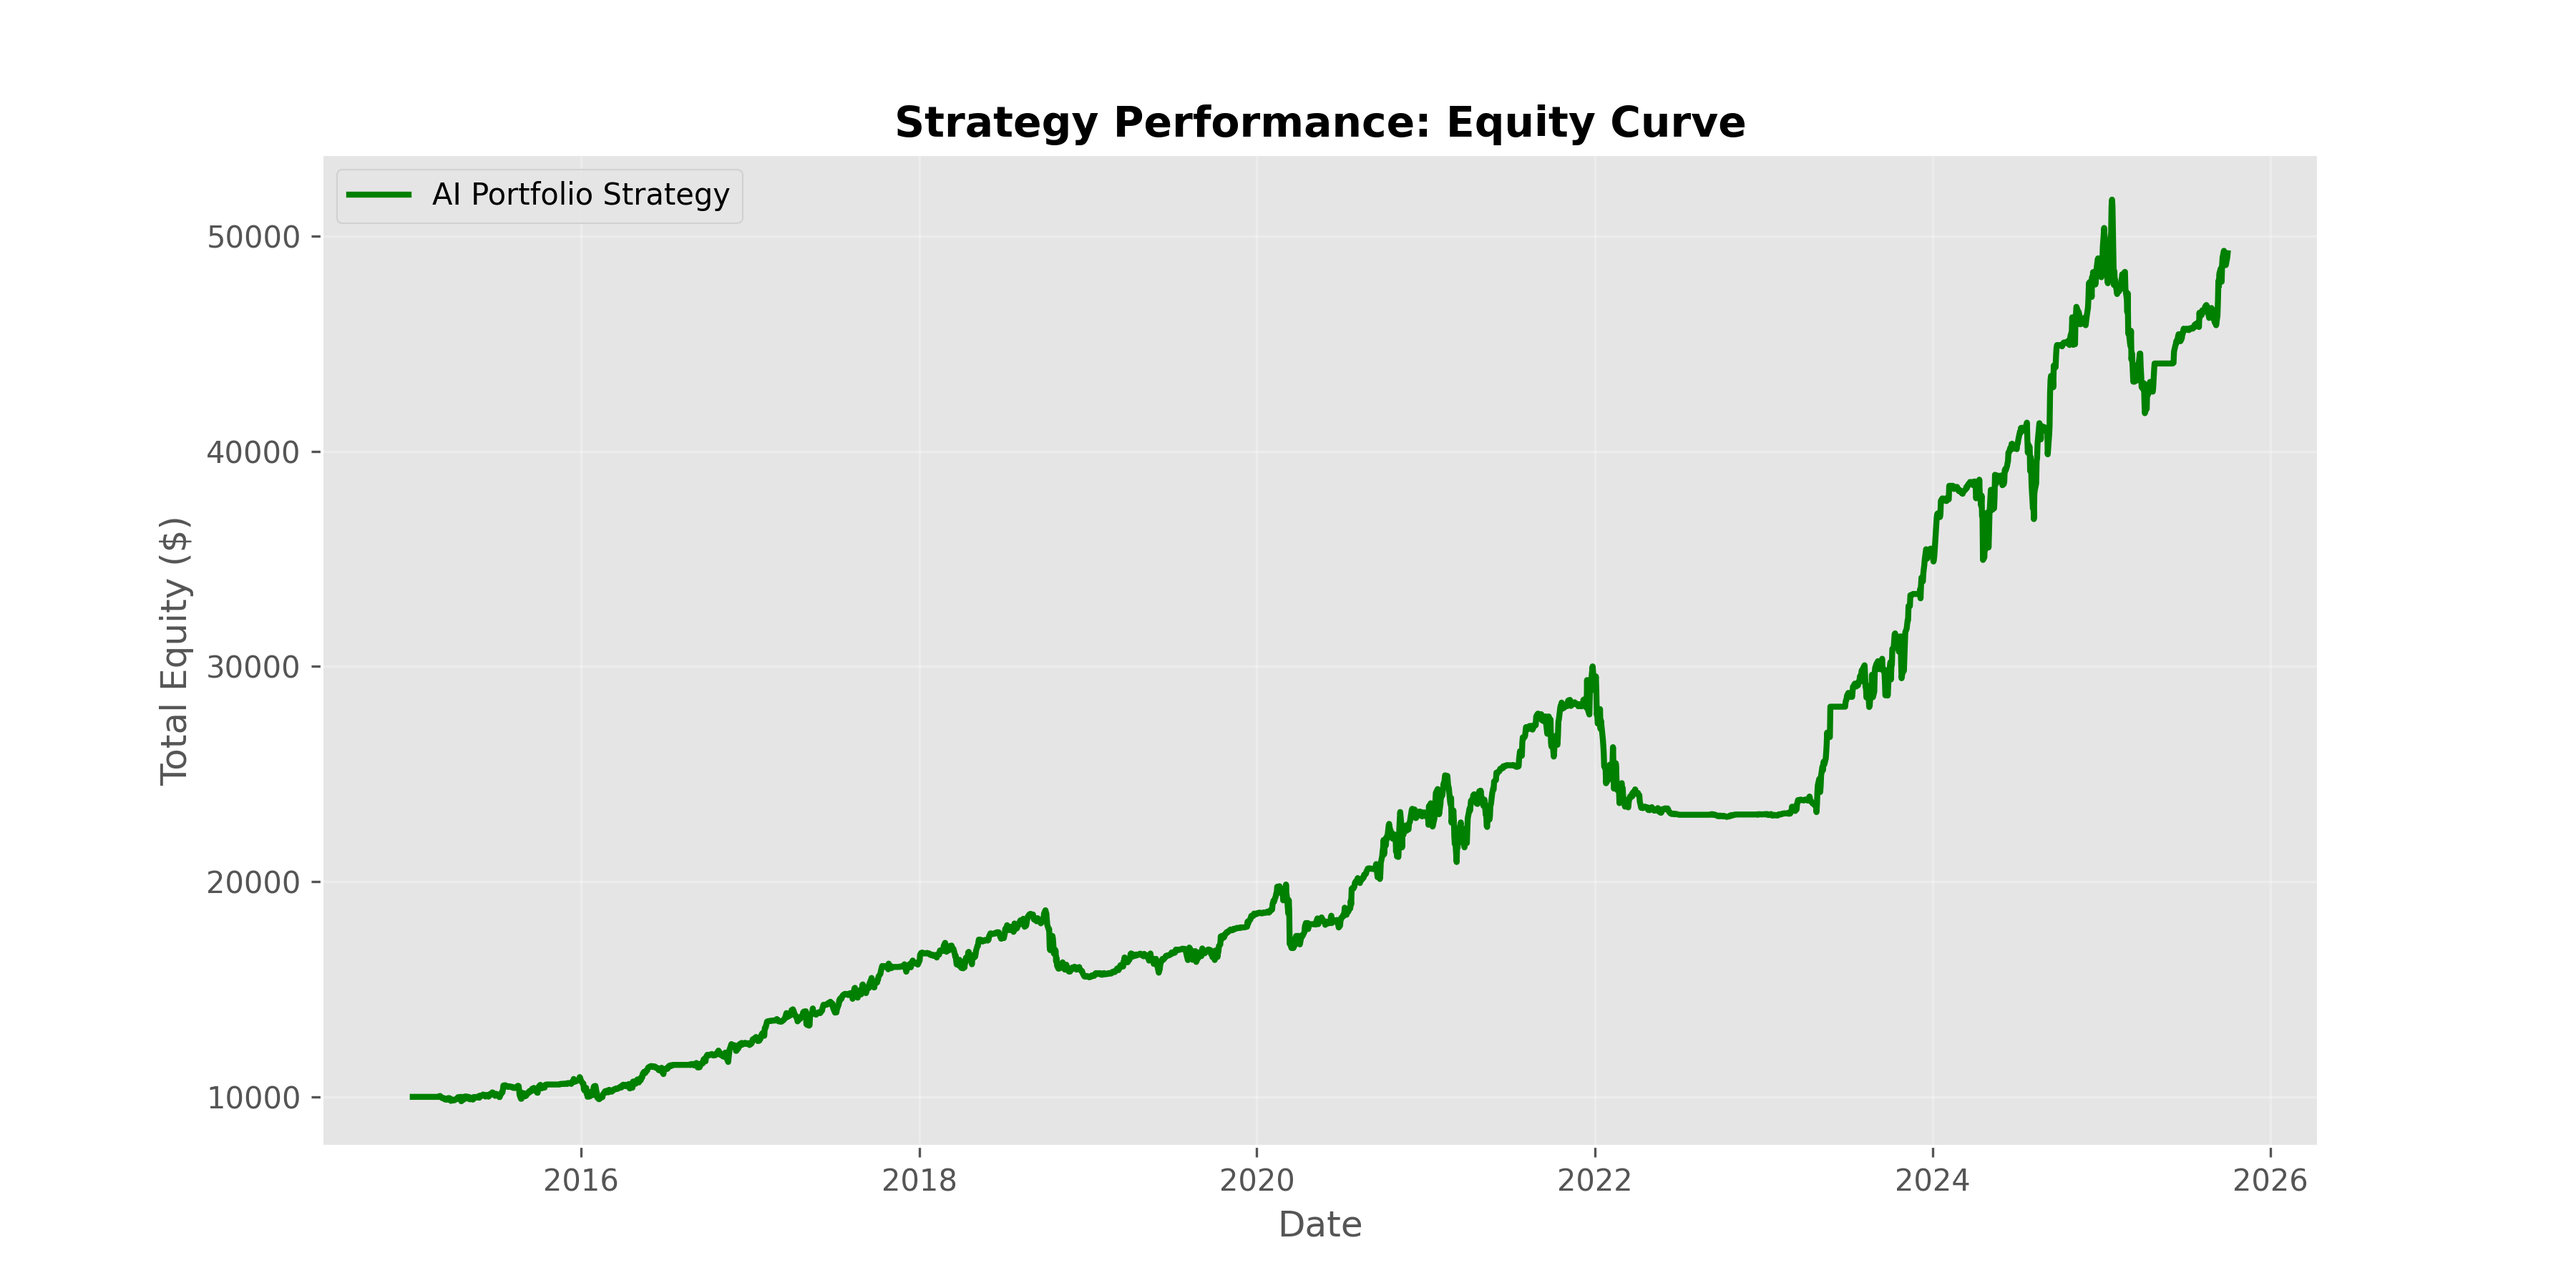
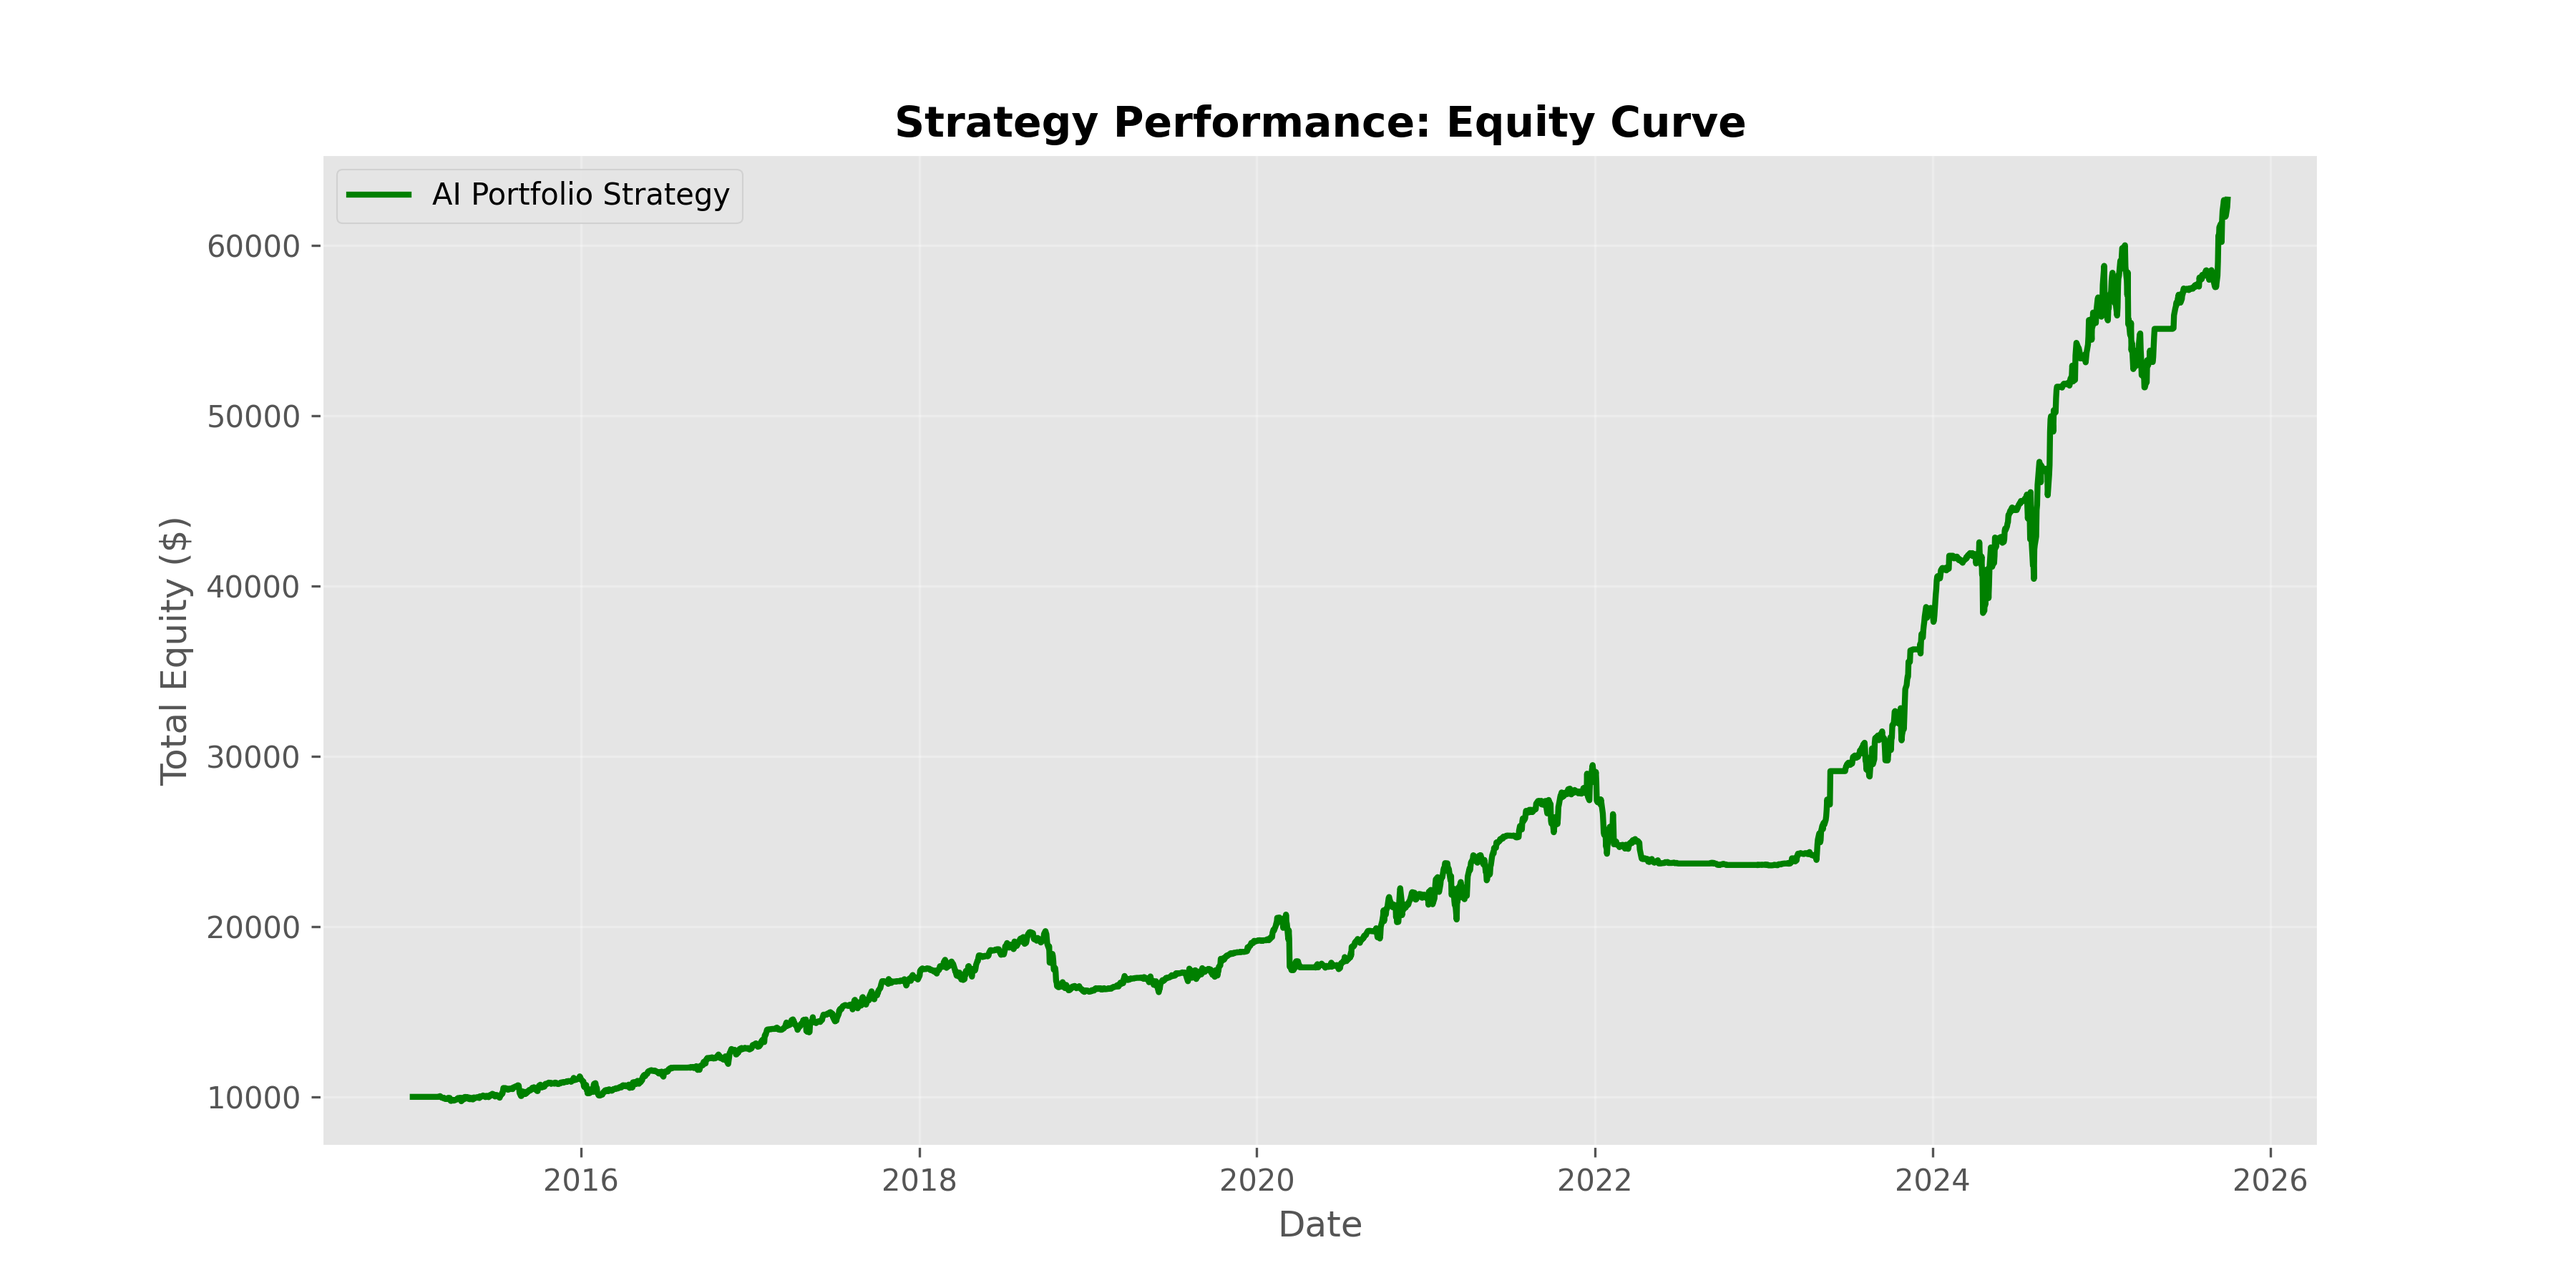
add files

diff --git a/MIDTERM_PROJECTS/strategy/backtest.py b/MIDTERM_PROJECTS/strategy/backtest.py
@@ -4,62 +4,50 @@ from MIDTERM_PROJECTS.strategy.signals import (check_entry_signal,check_exit_sig
 from MIDTERM_PROJECTS.strategy.indicators import add_indicators
 
 
-def run_single_backtest(df, initial_capital=1000):
+def run_single_backtest(df, fund=1000, rsi_buy=40, trailing_stop=0.10): # instead stop_loss = 0.07
     """
-    Simulates the trading strategy on a single asset.
+    Simulates trading on a single asset.
+    Updated to support Hyperparameter Tuning via arguments.
 
     Args:
-        df (pd.DataFrame): Historical data.
-        initial_capital (float): Starting cash.
-
-    Returns:
-        pd.Series: The Equity Curve (Total Asset Value over time).
+        df (pd.DataFrame): Data with indicators.
+        fund (float): Initial capital.
+        rsi_buy (int): RSI threshold for entry (Default: 40).
+        trailing_stop (float) : (Default: 10).
     """
-    # 1. Pre-calculate indicators
     df = add_indicators(df)
+    cash = fund
+    stock = 0
+    highest_price = 0  # Track peak price
+    equity = []
 
-    # 2. Initialize State
-    cash = initial_capital
-    position = 0  # Number of shares held
-    entry_price = 0  # Average cost basis
-    equity_curve = []  # Track value over time
-
-    # 3. Time-Stepping Simulation Loop
     for index, row in df.iterrows():
         price = row['close']
-
-        # Use .get() to safely handle NaN values at the start of data
         ema = row.get('EMA_200')
         rsi = row.get('RSI')
 
-        # Skip simulation if indicators are not ready (NaN)
-        if pd.isna(ema) or pd.isna(rsi):
-            equity_curve.append(cash)
-            continue
-
-        # --- EXECUTION LOGIC ---
-
-        # Scenario: Holding Cash -> Look to BUY
-        if position == 0:
-            if check_entry_signal(price, ema, rsi):
-                position = cash / price  # All-in execution
-                entry_price = price
+        # BUY Logic
+        if stock == 0 and not pd.isna(ema) and not pd.isna(rsi):
+            if price > ema and rsi < rsi_buy:
+                stock = cash / price
                 cash = 0
+                highest_price = price  # Initialize peak
 
-        # Scenario: Holding Stock -> Look to SELL
-        elif position > 0:
-            if check_exit_signal(price, rsi, entry_price):
-                cash = position * price  # Liquidate position
-                position = 0
-                entry_price = 0
+        # SELL Logic (Trailing Stop)
+        elif stock > 0:
+            if price > highest_price:
+                highest_price = price  # Update peak
 
-        # --- MARK TO MARKET CALCULATION ---
-        # Current Value = Cash + (Shares * Current Price)
-        current_equity = cash + (position * price)
-        equity_curve.append(current_equity)
+            stop_price = highest_price * (1 - trailing_stop)
 
-    # Return Series with matching index dates
-    return pd.Series(equity_curve, index=df.index[-len(equity_curve):])
+            if (rsi > 75) or (price < stop_price):
+                cash = stock * price
+                stock = 0
+                highest_price = 0
+
+        equity.append(cash + (stock * price))
+
+    return pd.Series(equity, index=df.index[-len(equity):])
 
 
 def run_portfolio_backtest(data_dict, capital_per_stock=1000):

diff --git a/MIDTERM_PROJECTS/optimizer/optimization.py b/MIDTERM_PROJECTS/optimizer/optimization.py
@@ -1,0 +1,90 @@
+import pandas as pd
+import numpy as np
+from MIDTERM_PROJECTS.strategy.backtest import run_single_backtest
+
+def split_data(df, train_ratio=0.8):
+    """Split data chronologically (80% Train, 20% Test)"""
+    n = int(len(df) * train_ratio)
+    return df.iloc[:n], df.iloc[n:]
+
+
+def calculate_sharpe(equity_series):
+    """Calculate Annualized Sharpe Ratio"""
+    if equity_series.empty: return 0
+    ret = equity_series.pct_change().dropna()
+    if ret.std() == 0: return 0
+    return (ret.mean() / ret.std()) * np.sqrt(252)
+
+
+def run_grid_search(data_dict):
+    """
+    Grid Search for Trailing Stop Optimization.
+    """
+    print("\n" + "=" * 60)
+    print("GRID SEARCH: TRAILING STOP OPTIMIZATION (80/20 SPLIT)")
+    print("=" * 60)
+
+    # Grid Parameters
+    rsi_options = [30, 35, 40]
+    trail_options = [0.05, 0.08, 0.10, 0.12, 0.15]  # 5% to 15%
+
+    print(f"{'RSI':<5} | {'TRAIL':<6} | {'TRAIN SHARPE':<12} | {'TEST SHARPE':<12} | {'STATUS'}")
+    print("-" * 60)
+
+    best_score = -999
+    best_params = None
+
+    for rsi in rsi_options:
+        for trail in trail_options:
+            train_scores, test_scores = [], []
+
+            for ticker, df in data_dict.items():
+                if len(df) < 100: continue
+                train, test = split_data(df)
+
+                # Run Backtest
+                res_train = run_single_backtest(train, rsi_buy=rsi, trailing_stop=trail)
+                res_test = run_single_backtest(test, rsi_buy=rsi, trailing_stop=trail)
+
+                train_scores.append(calculate_sharpe(res_train))
+                test_scores.append(calculate_sharpe(res_test))
+
+            avg_train = np.mean(train_scores) if train_scores else 0
+            avg_test = np.mean(test_scores) if test_scores else 0
+
+            # Robustness Check
+            status = "OK"
+            if avg_train > 1.5 and avg_test < 0.5:
+                status = "OVERFIT"
+            elif avg_test < 0:
+                status = "LOSS"
+
+            print(f"{rsi:<5} | {trail * 100:<4.0f}% | {avg_train:<12.2f} | {avg_test:<12.2f} | {status}")
+
+            if avg_train > best_score and avg_test > 0.5:
+                best_score = avg_train
+                best_params = (rsi, trail)
+
+    print("-" * 60)
+    if best_params:
+        print(f"RECOMMENDED: RSI={best_params[0]}, TRAILING_STOP={best_params[1]}")
+    else:
+        print("RECOMMENDED: Default Settings (No robust params found).")
+
+from MIDTERM_PROJECTS.data.clean_data import clean_data
+
+TICKERS = ['NVDA', 'AMD', 'MSFT', 'GOOGL', 'META', 'TSLA', 'PLTR', 'AVGO', 'AMZN', 'SMCI']
+START = '2015-01-01'
+END = '2025-10-01'
+
+
+def main():
+    data = clean_data(TICKERS, START, END)
+    if data:
+        run_grid_search(data)
+    else:
+        print("Error: No data available for optimization.")
+
+
+if __name__ == "__main__":
+    main()
